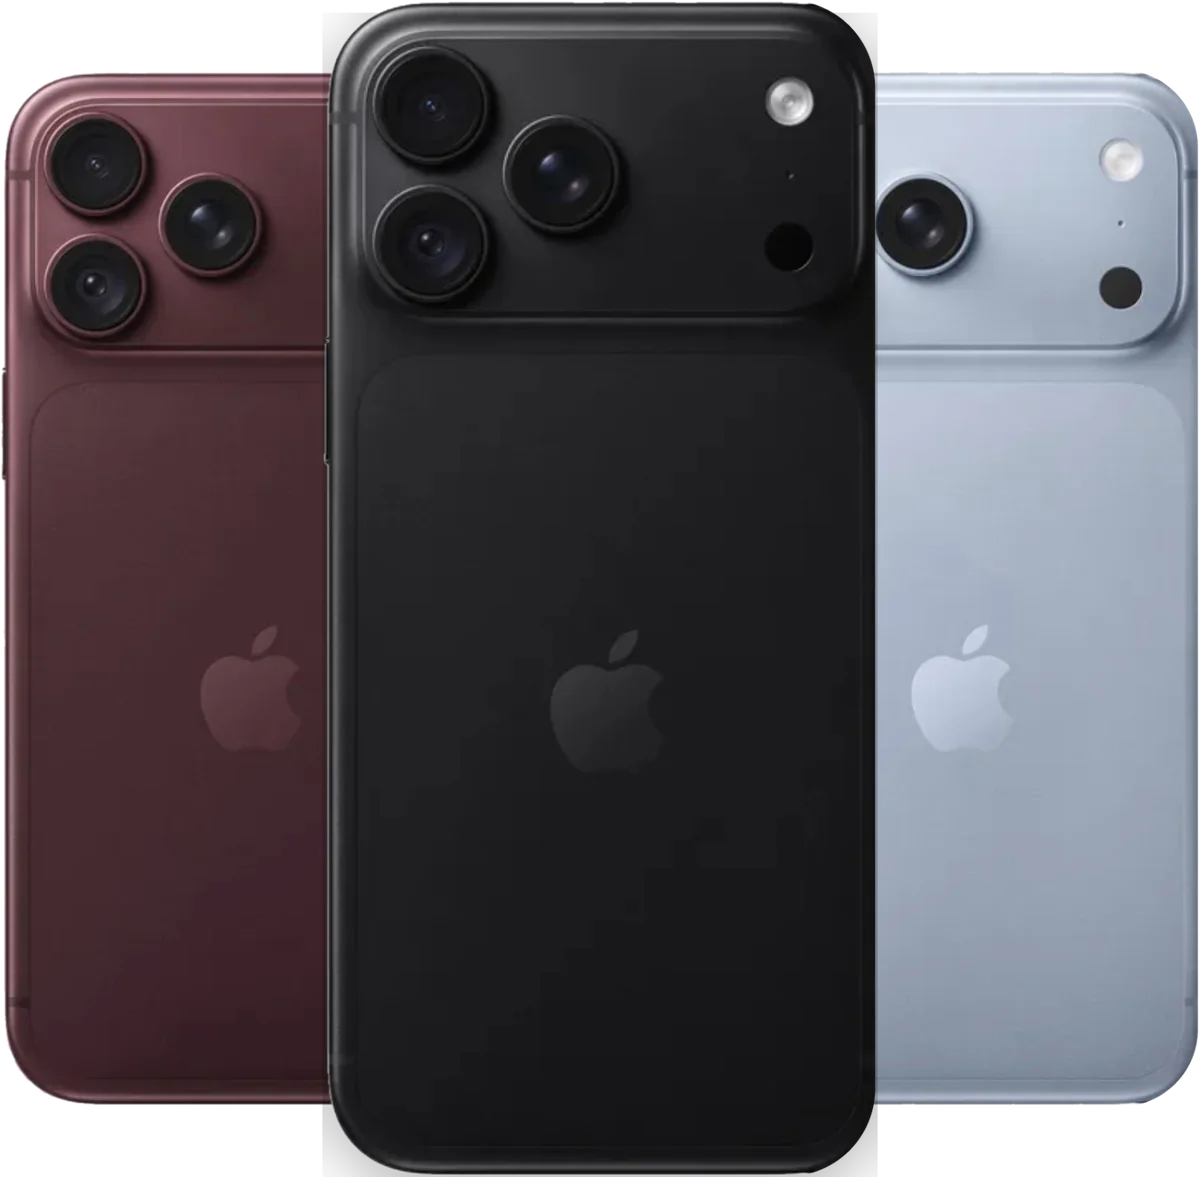
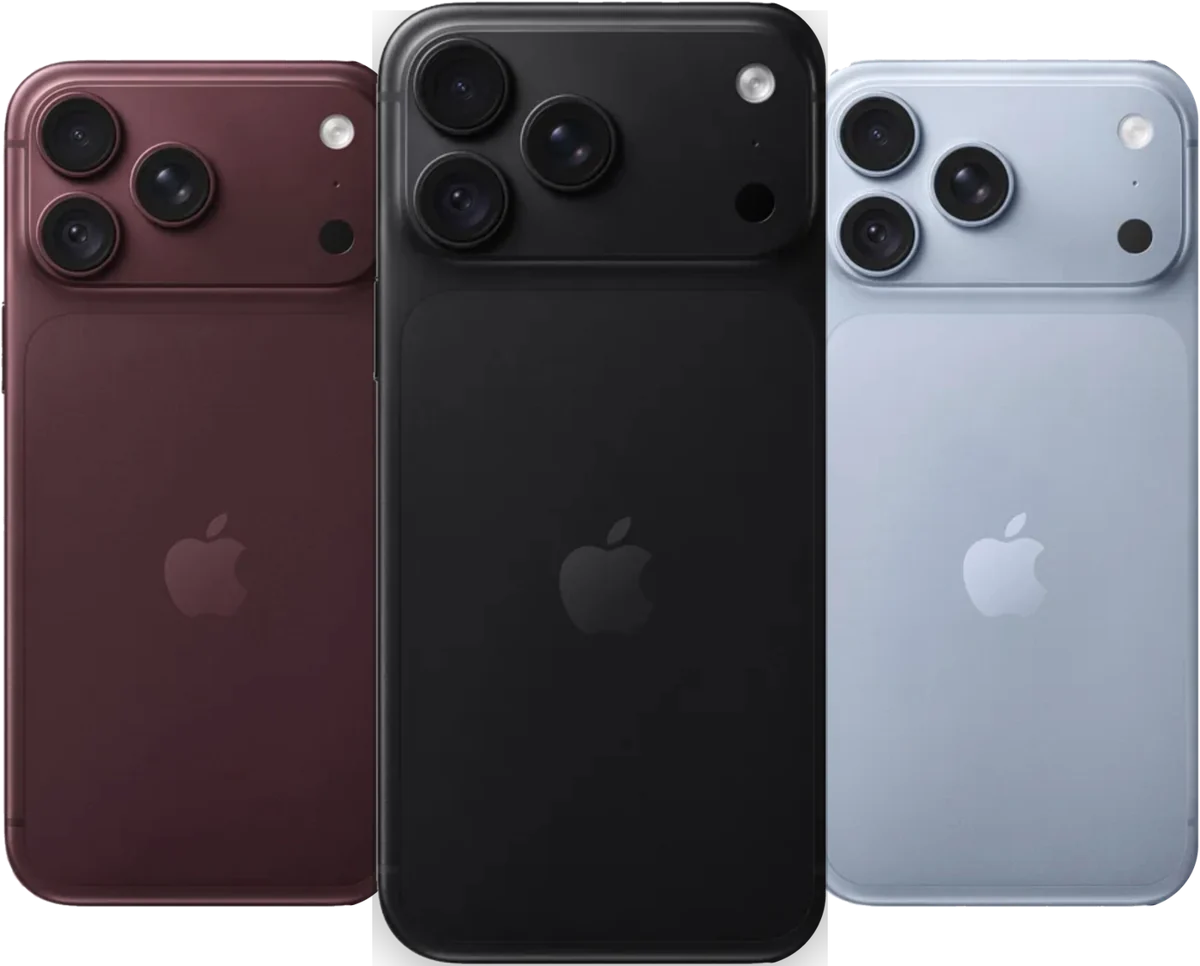
Catálogo: topo com as câmeras dos 3 iPhones aparecendo
Claude-Session: https://claude.ai/code/session_01LGhQR5wMZPKj9Q32cGdQRa

diff --git a/src/App.tsx b/src/App.tsx
@@ -55,7 +55,7 @@ const PARCELAS = 18
 // Por enquanto o catálogo mostra só celulares (acessórios, capinhas etc. ficam ocultos). false = mostra tudo
 const SO_CELULARES = true
 // Foto montada do topo (3 celulares juntos). Vazio = usa as fotos dos celulares cadastrados
-const FOTO_LANCAMENTO = '/hero/iphones-lancamento.webp?v=2'
+const FOTO_LANCAMENTO = '/hero/iphones-lancamento.webp?v=3'
 const TEMA_VITRINE = false // false = visual branco premium (estilo loja Apple); true = vitrine de pedra escura
 const CLASSE_TEMA = TEMA_VITRINE ? ' tema-vitrine' : ''
 const STORAGE = 'https://bahcoajavayvdfavdhpg.supabase.co/storage/v1/object/public'
